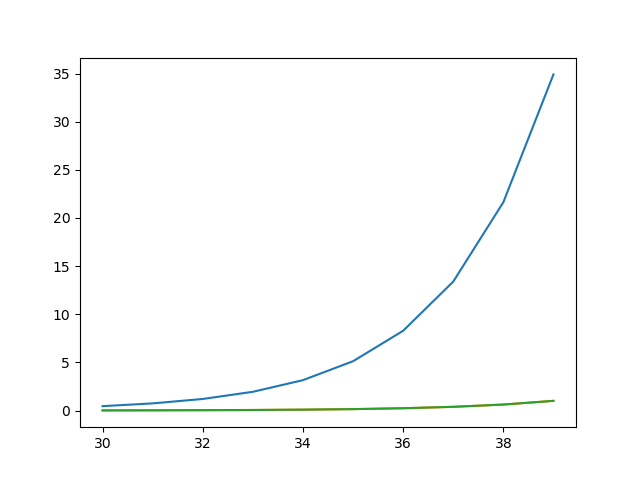
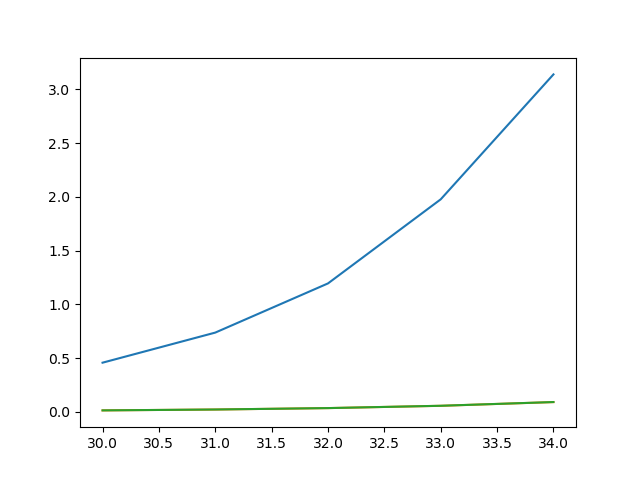
dsad

diff --git a/UPPMA4/MA4_2.py b/UPPMA4/MA4_2.py
@@ -33,7 +33,7 @@ def main():
 	f=Person(N)
 	f.fib()
 	
-	r=range(30,40)
+	r=range(30,35)
 	l=range(20,30)
 	
 #Question 5: py and numba for n=20-30
@@ -49,7 +49,7 @@ def main():
 		fib_numba(n)
 		end = pc()
 		fib_numba_list_2.append(end - start)
-		#print('fib_numba: ', end-start)
+		print('fib_numba: ', end-start)
 #Question 4: all for n=30-45
 	for n in r:
 		print('N: ', n)
@@ -57,20 +57,20 @@ def main():
 		fib_py(n)
 		end = pc()
 		fib_py_list.append(end-start)
-		#print('fib_py: ', end-start)
+		print('fib_py: ', end-start)
 
 		start = pc()
 		fib_numba(n)
 		end = pc()
 		fib_numba_list.append(end - start)
-		#print('fib_numba: ', end-start)
+		print('fib_numba: ', end-start)
 
 		start = pc()
 		f = Person(n)
 		f.fib()
 		end = pc()
 		fib_cpp_list.append(end - start)
-		#print('fibc: ', end-start)
+		print('fibc: ', end-start)
 	#Q6=[]	#ctest=47
 	#start=pc()
 	#f=Person(ctest)
@@ -82,11 +82,9 @@ def main():
 	plt.plot(r, fib_py_list, label='Python')
 	plt.plot(r, fib_numba_list, label='Numba')
 	plt.plot(r, fib_cpp_list, label='C++')
-	plt.show()
 	plt.savefig('plot_MA42.png')
 
 #xaxs
-
 
 	
 # _age= 10
